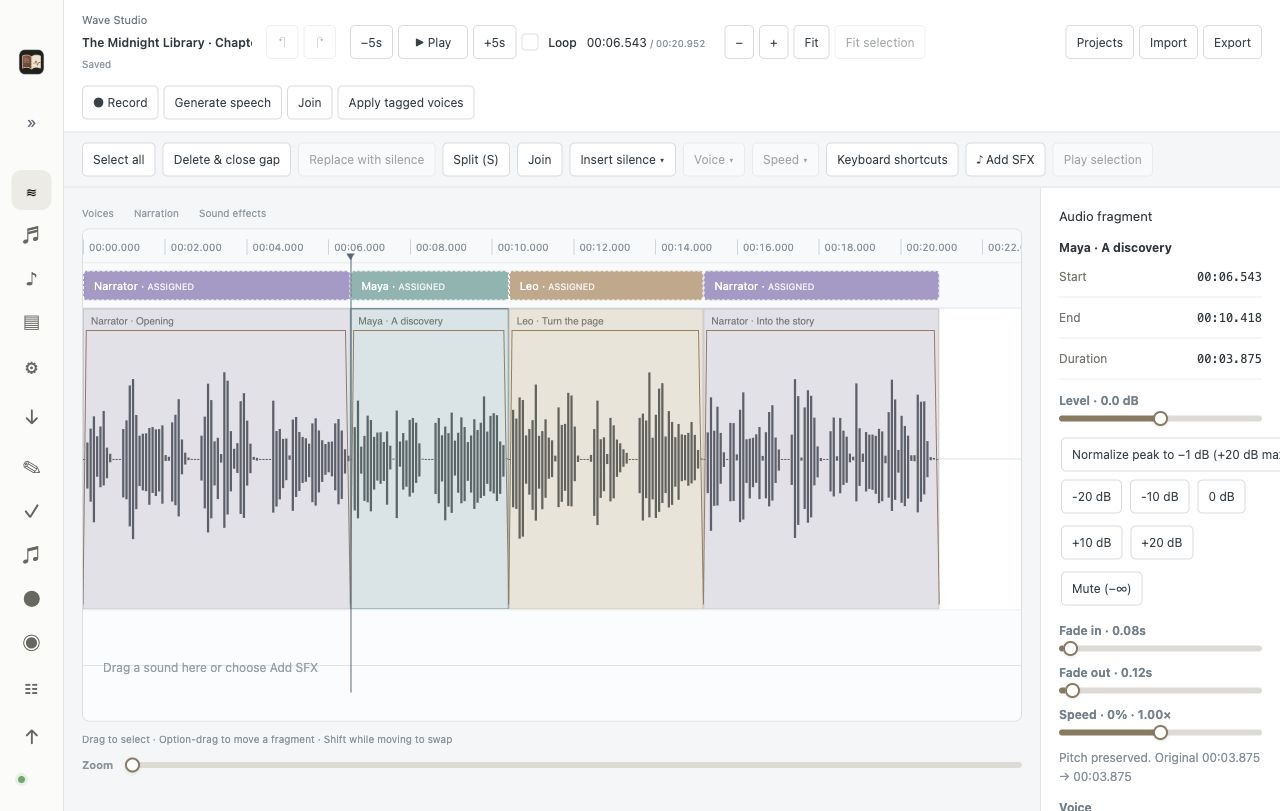
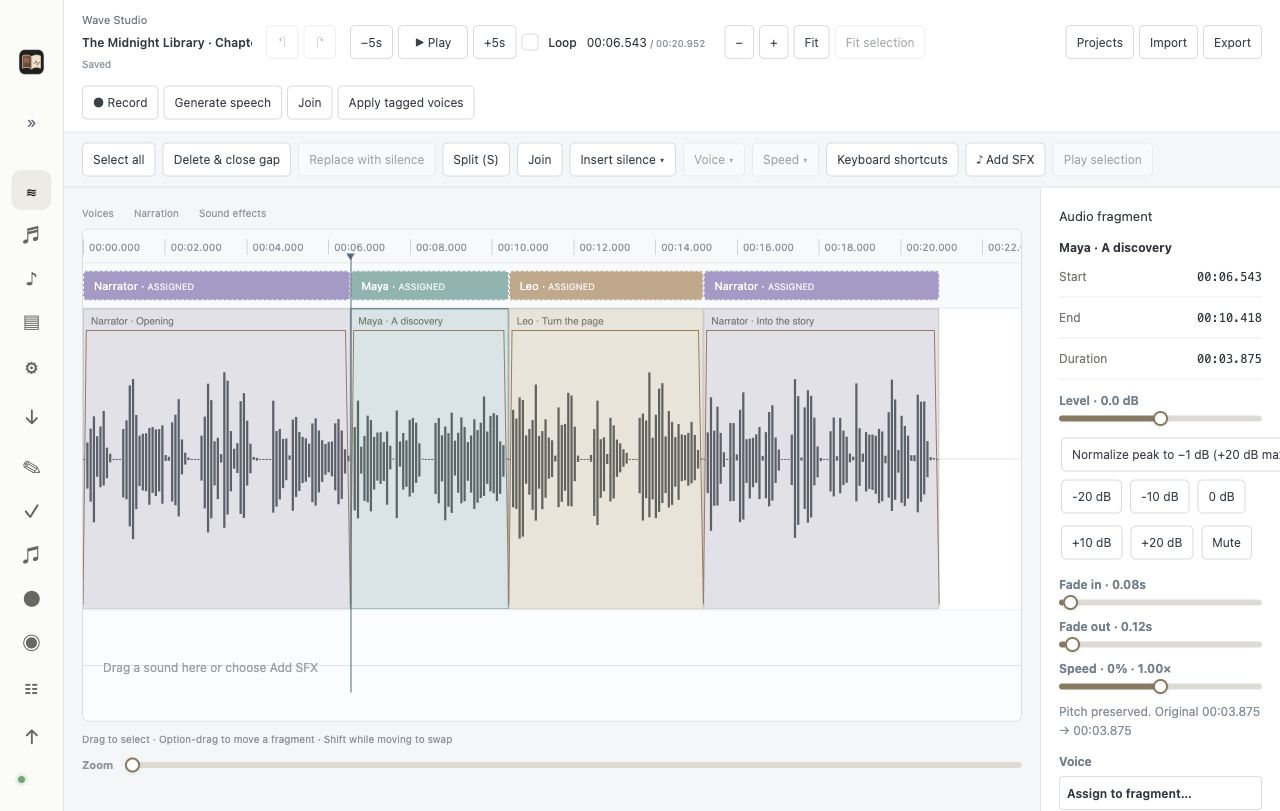
Rename fragment Mute and release 0.2.8

Changed region(s): [[0.8125, 0.709, 1.0, 1.0], [0.9375, 0.6473, 0.9688, 0.6782]]

diff --git a/src/renderer/src/components/WaveStudioInspector.tsx b/src/renderer/src/components/WaveStudioInspector.tsx
@@ -23,7 +23,7 @@ export function WaveStudioInspector({ voices, onManageVoices, onGenerateVoice, o
  {region && t ? <><strong style={{ color: region.color }}>{region.name}</strong><NumberField label="Start (ms)" value={region.startMs} max={region.endMs - 1} commit={n => w.edit({ ...t, voices: t.voices.map(v => v.id === region.id ? { ...v, startMs: n } : v) })} /><NumberField label="End (ms)" value={region.endMs} min={region.startMs + 1} max={timelineDuration(t)} commit={n => w.edit({ ...t, voices: t.voices.map(v => v.id === region.id ? { ...v, endMs: n } : v) })} /><label>Assigned voice<select value={region.voiceId} onChange={e => { const v = voices.find(v => v.id === e.target.value); if (v) w.edit(assignVoice({ ...t, voices: t.voices.filter(v => v.id !== region.id) }, region.startMs, region.endMs, v)) }}>{!voices.some(v => v.id === region.voiceId) && <option value={region.voiceId}>{region.name} (removed from library)</option>}{voices.map(v => <option value={v.id} key={v.id}>{v.name}</option>)}</select></label><span className="wave-voice-badge">{region.production?.status || 'assigned'}</span><button className="primary" onClick={()=>onGenerateVoice(region.id)}>{region.production?'Regenerate / preview voice':'Generate / preview voice'}</button><button onClick={()=>onListenVoice(region.id)}>Listen to passage</button><button onClick={onManageVoices}>Open voice library</button><button onClick={() => w.edit({ ...t, voices: t.voices.filter(v => v.id !== region.id) })}>Remove region</button><p>Voice labels mark the passage. Use Apply tagged voices in the top toolbar to convert, preview and accept this audio.</p></> : c && t ? <><strong>{c.name}</strong><dl><div><dt>Start</dt><dd>{formatWaveTime(c.startMs)}</dd></div><div><dt>End</dt><dd>{formatWaveTime(clipEnd(c))}</dd></div><div><dt>Duration</dt><dd>{formatWaveTime(clipDuration(c))}</dd></div></dl>
  {!c.sourceId ? <NumberField label="Silence duration (ms)" value={clipDuration(c)} min={1} commit={silenceDuration} /> : <>
  {sfx && <><NumberField label="Start (ms)" value={c.startMs} commit={n => update({ startMs: n })} /><NumberField label="Source in (ms)" value={c.sourceStartMs} max={c.sourceEndMs - 1} commit={n => update({ sourceStartMs: n, fadeInMs: Math.min(c.fadeInMs, (c.sourceEndMs - n) / c.speed), fadeOutMs: Math.min(c.fadeOutMs, (c.sourceEndMs - n) / c.speed) })} /><NumberField label="Source out (ms)" value={c.sourceEndMs} min={c.sourceStartMs + 1} max={w.project?.sources.find(s => s.id === c.sourceId)?.durationMs || c.sourceEndMs} commit={n => update({ sourceEndMs: n, fadeInMs: Math.min(c.fadeInMs, (n - c.sourceStartMs) / c.speed), fadeOutMs: Math.min(c.fadeOutMs, (n - c.sourceStartMs) / c.speed) })} /></>}
- <label>Level · {c.gainDb.toFixed(1)} dB<NeutralSlider label="Fragment level" min={-96} max={20} step={.5} value={c.gainDb} onChange={gainDb=>update({gainDb})} /></label><button disabled={normalizing || !c.sourceId} onClick={()=>{const project=w.project!, selected=c.id, before=JSON.stringify(t);setNormalizing(true);void waveApi.normalize(project,selected).then(gain=>{if(project.id!==latest.current?.id || JSON.stringify(latest.current.timeline)!==before)throw new Error('Timeline changed during measurement. Normalize this fragment again.');update({gainDb:gain});setNormalizeInfo(`${gain>=0?'+':''}${gain.toFixed(1)} dB applied. ${gain<0?'The peak exceeded −1 dB, so normalization reduced the level.':gain===20?'Boost limited to +20 dB.':'Peak target: −1 dB.'}`)}).catch(e=>w.setError(errorMessage(e))).finally(()=>setNormalizing(false))}}>{normalizing?'Measuring…':'Normalize peak to −1 dB (+20 dB max)'}</button>{normalizeInfo&&<p role="status">{normalizeInfo}</p>}<div className="wave-presets">{[-20, -10, 0, 10, 20].map(db => <button key={db} onClick={() => update({ gainDb: db })}>{db>0?'+':''}{db} dB</button>)}<button onClick={() => update({ gainDb: c.gainDb <= -96 ? -10 : -96 })}>{c.gainDb <= -96 ? 'Unmute' : 'Mute (−∞)'}</button></div>
+ <label>Level · {c.gainDb.toFixed(1)} dB<NeutralSlider label="Fragment level" min={-96} max={20} step={.5} value={c.gainDb} onChange={gainDb=>update({gainDb})} /></label><button disabled={normalizing || !c.sourceId} onClick={()=>{const project=w.project!, selected=c.id, before=JSON.stringify(t);setNormalizing(true);void waveApi.normalize(project,selected).then(gain=>{if(project.id!==latest.current?.id || JSON.stringify(latest.current.timeline)!==before)throw new Error('Timeline changed during measurement. Normalize this fragment again.');update({gainDb:gain});setNormalizeInfo(`${gain>=0?'+':''}${gain.toFixed(1)} dB applied. ${gain<0?'The peak exceeded −1 dB, so normalization reduced the level.':gain===20?'Boost limited to +20 dB.':'Peak target: −1 dB.'}`)}).catch(e=>w.setError(errorMessage(e))).finally(()=>setNormalizing(false))}}>{normalizing?'Measuring…':'Normalize peak to −1 dB (+20 dB max)'}</button>{normalizeInfo&&<p role="status">{normalizeInfo}</p>}<div className="wave-presets">{[-20, -10, 0, 10, 20].map(db => <button key={db} onClick={() => update({ gainDb: db })}>{db>0?'+':''}{db} dB</button>)}<button onClick={() => update({ gainDb: c.gainDb <= -96 ? -10 : -96 })}>{c.gainDb <= -96 ? 'Unmute' : 'Mute'}</button></div>
  <label>Fade in · {(c.fadeInMs/1000).toFixed(2)}s<StudioSlider aria-label="Fade in" min={0} max={clipDuration(c)} step={10} value={c.fadeInMs} onChange={e=>update({fadeInMs:Number(e.target.value)<Math.min(50,clipDuration(c)*.02)?0:Number(e.target.value)})} /></label><label>Fade out · {(c.fadeOutMs/1000).toFixed(2)}s<StudioSlider aria-label="Fade out" min={0} max={clipDuration(c)} step={10} value={c.fadeOutMs} onChange={e=>update({fadeOutMs:Number(e.target.value)<Math.min(50,clipDuration(c)*.02)?0:Number(e.target.value)})} /></label>
  {clip && <><label>Speed · {((speed-1)*100).toFixed(0)}% · {speed.toFixed(2)}×<NeutralSlider label="Fragment speed" min={.85} max={1.2} neutral={1} step={.01} value={speed} onChange={n=>{setSpeed(n);w.edit(changeSpeed(t,c.startMs,clipEnd(c),n))}} /></label><p>Pitch preserved. Original {formatWaveTime(c.sourceEndMs - c.sourceStartMs)} → {formatWaveTime((c.sourceEndMs - c.sourceStartMs) / (speed || c.speed))}</p><label>Voice<select defaultValue="" onChange={e => { const v = voices.find(v => v.id === e.target.value); if (v) w.edit(assignVoice(t, c.startMs, clipEnd(c), v)) }}><option value="">Assign to fragment…</option>{voices.map(v => <option key={v.id} value={v.id}>{v.name}</option>)}</select></label></>}
  </>}

diff --git a/docs/TASK_LOG.md b/docs/TASK_LOG.md
@@ -201,3 +201,8 @@
 - Updated owned version manifests/locks, removed ZIP creation/verification/publication, documented Linux bundle contents and dependencies.
 - README screenshot captured from the actual browser editor using disposable spoken fixtures and Narrator/Maya/Leo assignments; installed app and user projects were untouched.
 - v0.2.6 macOS release and CI succeeded; Linux CI was still running when this follow-up began. v0.2.7 renderer checks passed (38 tests), Apple Silicon DMG build/signature/resources passed and isolated packaged startup smoke passed. Publication and Linux CI follow.
+
+## 2026-10-06 · v0.2.8 label follow-up
+- Renamed the Wave fragment button to Mute; Unmute and behavior remain intact.
+- v0.2.7 tag and DMG were already published, so incremented to v0.2.8 rather than modifying a published tag.
+- Refreshed the real editor screenshot with the plain Mute label. Production web build, verified arm64 DMG/signature/resources and isolated packaged startup smoke passed. Main/tag publication follows; Linux bundle is built by the release workflow.

diff --git a/docs/PROJECT_CONTEXT.md b/docs/PROJECT_CONTEXT.md
@@ -9,6 +9,7 @@
 - Users: authors and audiobook creators on Apple Silicon Macs.
 
 ## Current milestone
+- Version 0.2.8: user requested the plain Mute button label after v0.2.7 publication; package policy remains DMG only on macOS and Linux application bundle.
 - Version 0.2.7: release policy is macOS Apple Silicon DMG only and Linux x86_64 application bundle; README shows the voice editor and separate platform requirements. Increment the patch number for every new release; never reuse published tags.
 - Version 0.2.6: bounded imports/playback, cancellable generation, overlapping SFX rows, multiple selection, shortcut help, neutral effect sliders, portable `.wavehs` bundles and an authenticated Linux browser edition. User authorized the version increase and GitHub artifacts.
 - Version 0.2.4 includes app-owned Chatterbox setup, narration recovery when a local worker stops, a two-job restart boundary for local Chatterbox memory, per-section narration and takes, batch chapter narration from Review, queue progress/cleanup, and recording-to-narrator conversion.

diff --git a/docs/LINUX_SERVER.md b/docs/LINUX_SERVER.md
@@ -4,7 +4,7 @@ The server runs the same React editor and Rust audio/project services as the mac
 
 ## Linux application bundle
 
-The application bundle includes the native server, browser editor, workers, sound assets, launcher and container configuration. Extract `homer-studio-0.2.7-linux-x86_64.tar.gz` on Ubuntu 22.04 or newer. Install FFmpeg, Python 3.10 and its venv support (`sudo apt install ffmpeg python3.10 python3.10-venv`). From the extracted directory:
+The application bundle includes the native server, browser editor, workers, sound assets, launcher and container configuration. Extract `homer-studio-0.2.8-linux-x86_64.tar.gz` on Ubuntu 22.04 or newer. Install FFmpeg, Python 3.10 and its venv support (`sudo apt install ffmpeg python3.10 python3.10-venv`). From the extracted directory:
 
 ```sh
 export HOMER_TOKEN="$(python3 -c 'import secrets; print(secrets.token_hex(32))')"
